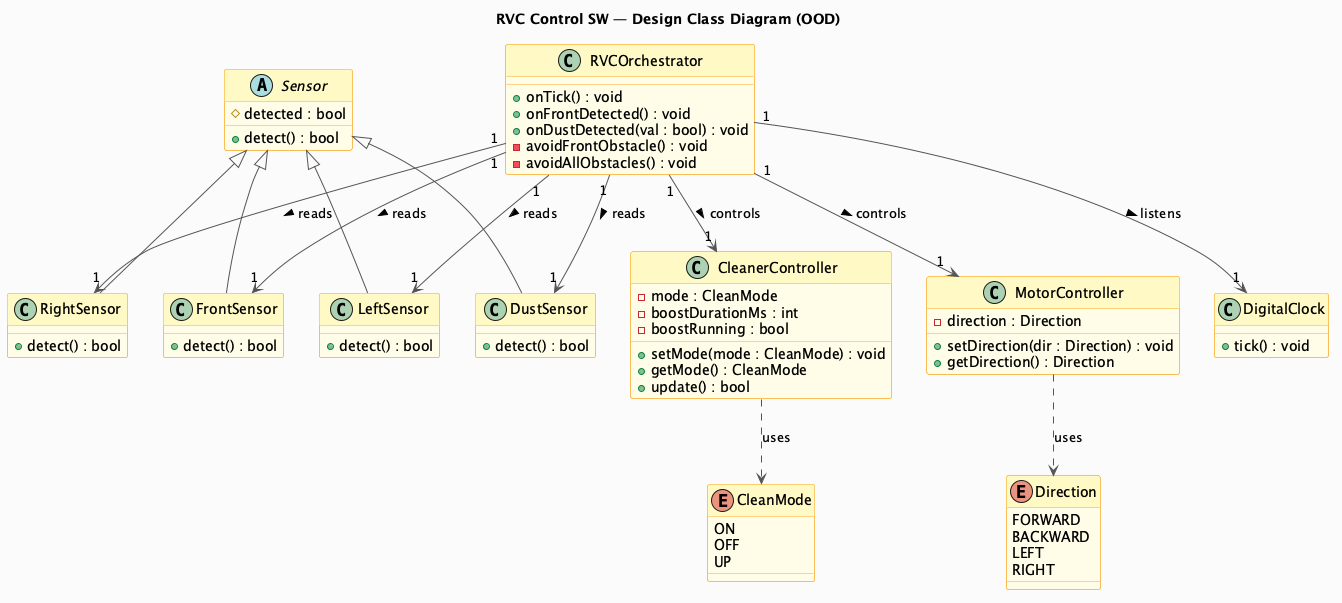
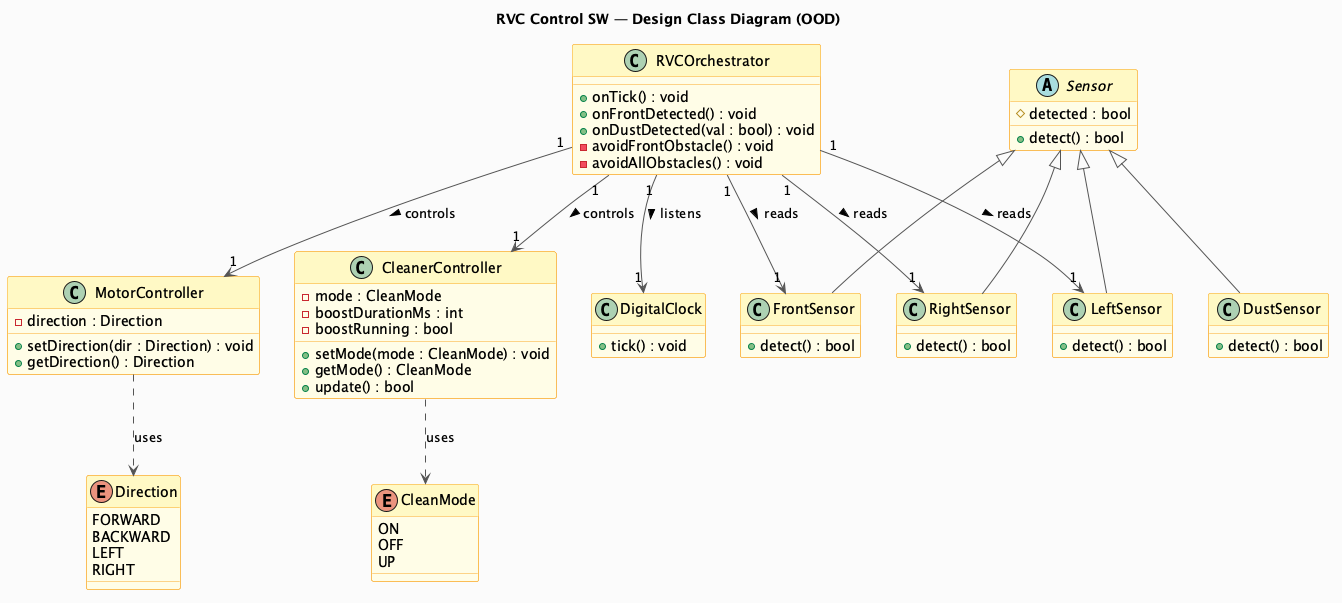
fix(ood/ooi): Fix 2 inconsistencies found in cross-validation
[OOD]
- class-diagram: RVCOrchestrator --> DustSensor reads 관계 제거
  (onDustDetected는 val 파라미터로 값을 받는 구조 — DustSensor 직접 읽기 없음)
- ClassDiagram_OOD.png 재생성

[OOI]
- RVCOrchestrator.h/cpp: DustSensor 멤버 제거 (미사용)
- RVCOrchestrator.cpp: avoidAllObstacles() 후진 후
  leftSensor.detect()로 열린 방향 확인하여 LEFT/RIGHT 선택
  (SD-3 "LEFT or RIGHT" 미구현 → 수정)

diff --git a/docs/vibe-coding/04-ooi/code/src/RVCOrchestrator.cpp b/docs/vibe-coding/04-ooi/code/src/RVCOrchestrator.cpp
@@ -1,9 +1,8 @@
 #include "RVCOrchestrator.h"
 
 RVCOrchestrator::RVCOrchestrator(FrontSensor& fs, LeftSensor& ls, RightSensor& rs,
-                                 DustSensor& ds, MotorController& mc, CleanerController& cc)
-    : frontSensor(fs), leftSensor(ls), rightSensor(rs),
-      dustSensor(ds), motor(mc), cleaner(cc)
+                                 MotorController& mc, CleanerController& cc)
+    : frontSensor(fs), leftSensor(ls), rightSensor(rs), motor(mc), cleaner(cc)
 {}
 
 // SD-1: onTick() — FrontSensor, LeftSensor, RightSensor 직접 호출
@@ -45,11 +44,18 @@ void RVCOrchestrator::avoidFrontObstacle() {
     cleaner.setMode(CleanMode::ON);
 }
 
-// SD-3: 청소 중단 → 후진 → 방향 전환 → 전진 → 청소 재개
+// SD-3: 청소 중단 → 후진 → 열린 방향 회전 → 전진 → 청소 재개
 void RVCOrchestrator::avoidAllObstacles() {
     cleaner.setMode(CleanMode::OFF);
     motor.setDirection(Direction::BACKWARD);
-    motor.setDirection(Direction::LEFT);
+
+    bool left = leftSensor.detect();
+    if (!left) {
+        motor.setDirection(Direction::LEFT);
+    } else {
+        motor.setDirection(Direction::RIGHT);
+    }
+
     motor.setDirection(Direction::FORWARD);
     cleaner.setMode(CleanMode::ON);
 }

diff --git a/docs/vibe-coding/04-ooi/code/include/RVCOrchestrator.h b/docs/vibe-coding/04-ooi/code/include/RVCOrchestrator.h
@@ -2,7 +2,6 @@
 #include "FrontSensor.h"
 #include "LeftSensor.h"
 #include "RightSensor.h"
-#include "DustSensor.h"
 #include "MotorController.h"
 #include "CleanerController.h"
 
@@ -11,7 +10,6 @@ private:
     FrontSensor&       frontSensor;
     LeftSensor&        leftSensor;
     RightSensor&       rightSensor;
-    DustSensor&        dustSensor;
     MotorController&   motor;
     CleanerController& cleaner;
 
@@ -20,7 +18,7 @@ private:
 
 public:
     RVCOrchestrator(FrontSensor& fs, LeftSensor& ls, RightSensor& rs,
-                    DustSensor& ds, MotorController& mc, CleanerController& cc);
+                    MotorController& mc, CleanerController& cc);
 
     void onTick();
     void onFrontDetected();
